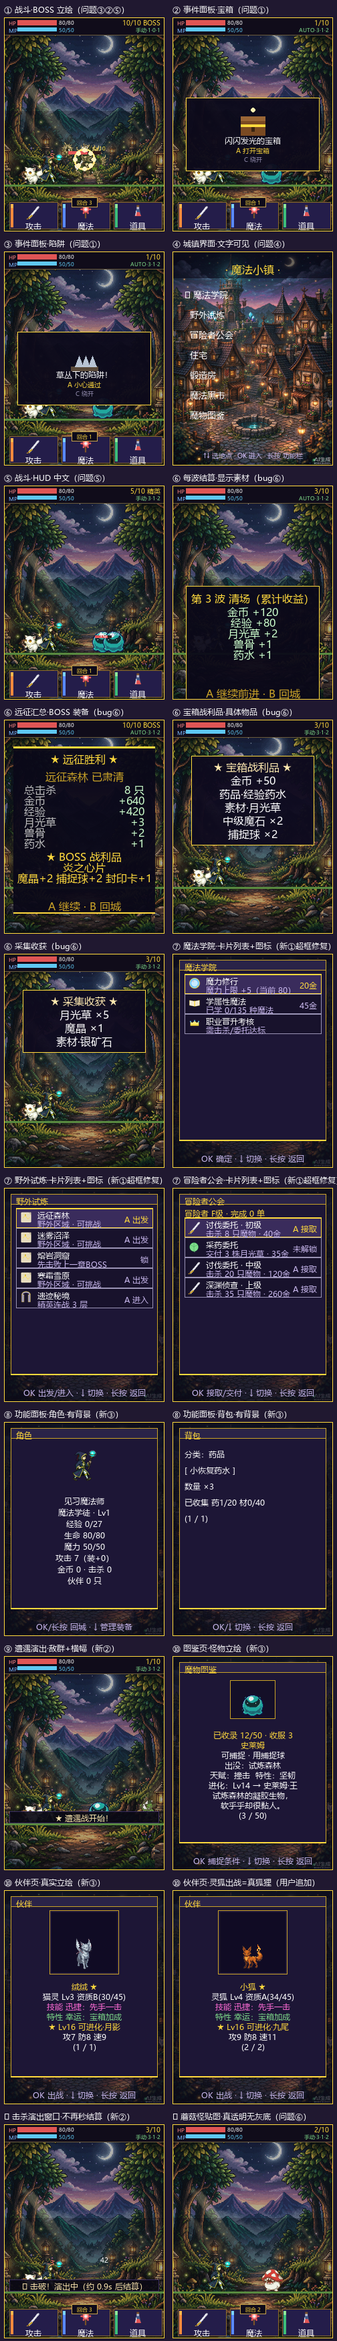
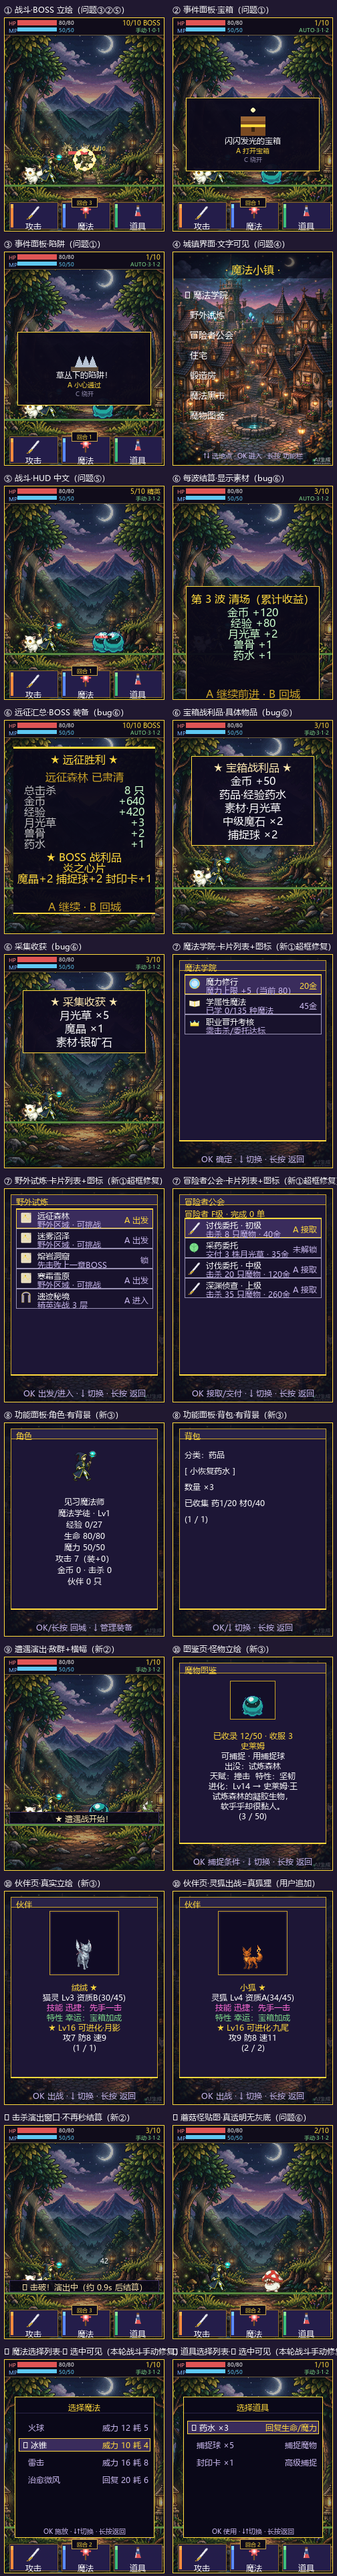
mage: 战斗手动模式魔法/道具子菜单可视化 + OK退出自动即攻击
- 修复「切手动后按键不好用」：BP_MAGIC/BP_ITEM 现在用 mage_fx_choices
  面板渲染完整列表 + ▶ 选中高亮 + 操作提示，不再只有左上角一行小字
- BP_MENU 的 OK 在自动模式下现在直接停自动并出招（不再只弹‘手动接管’）
- 复用 evtRoot/evtBox 加 FX_PM_CHOICES 模式；不抢 RESULT/LOOT/EVENT 面板
- 预览工具同步增加 magic/item 子菜单对比图

diff --git a/main/mage_fx.c b/main/mage_fx.c
@@ -865,6 +865,7 @@ void mage_fx_show(bool on)
 #define FX_PM_RESULT 1
 #define FX_PM_EXPO   2
 #define FX_PM_LOOT   3
+#define FX_PM_CHOICES 4   /* 魔法/道具选择列表面板（带 ▶ 选中） */
 
 static int8_t s_pmode = -1;   /* 当前面板版式（-1=隐藏） */
 static int16_t s_pgeo = -1;   /* 版式+行数组合的几何记忆 */
@@ -1083,6 +1084,57 @@ void mage_fx_loot(int show, const char *title, const char *footer, const char **
         strncpy(lprev, lbuf, sizeof(lprev) - 1); lprev[sizeof(lprev) - 1] = '\0';
         lv_label_set_text(F.evtName, title ? title : "");
         lv_label_set_text(F.evtDesc, lbuf);
+        s_pgen++; mygen = s_pgen;
+    }
+    if (lv_obj_has_flag(F.evtRoot, LV_OBJ_FLAG_HIDDEN))
+        lv_obj_remove_flag(F.evtRoot, LV_OBJ_FLAG_HIDDEN);
+}
+
+/* 魔法/道具选择列表面板：复用 evtRoot/evtBox，单列带 ▶ 选中的多行文本，
+ * 与城镇菜单一致的「选中高亮」语义；不抢事件面板（EVENT 独占 evtRoot）。
+ * show<=0 时仅当当前就是 CHOICES 面板才隐藏，避免误伤 RESULT/LOOT/EVENT。 */
+void mage_fx_choices(int show, const char *title, const char **lines, int n, const char *footer)
+{
+    if (!F.built || !g_fx_parent) return;
+    if (show <= 0 || n <= 0 || !lines) {
+        if (s_pmode == FX_PM_CHOICES) {
+            if (!lv_obj_has_flag(F.evtRoot, LV_OBJ_FLAG_HIDDEN))
+                lv_obj_add_flag(F.evtRoot, LV_OBJ_FLAG_HIDDEN);
+            s_pmode = -1; s_pgeo = -1;
+        }
+        return;
+    }
+    if (s_pmode != FX_PM_CHOICES) {
+        s_pmode = FX_PM_CHOICES;
+        s_pgen++;
+        panel_geo(4, 16, 56, SCR_W - 32, 210, 0x0a0818);
+        lv_obj_add_flag(F.evtIcon, LV_OBJ_FLAG_HIDDEN);
+        lv_obj_add_flag(F.evtSub,  LV_OBJ_FLAG_HIDDEN);
+        lv_obj_add_flag(F.evtRowL, LV_OBJ_FLAG_HIDDEN);
+        lv_obj_add_flag(F.evtRowR, LV_OBJ_FLAG_HIDDEN);
+        lv_obj_set_width(F.evtName, SCR_W - 32);
+        lv_obj_set_style_text_color(F.evtName, lv_color_hex(0xffd93d), 0);
+        lv_obj_set_style_text_align(F.evtName, LV_TEXT_ALIGN_CENTER, 0);
+        lv_obj_set_pos(F.evtName, 0, 8);
+        lv_obj_set_width(F.evtDesc, SCR_W - 32);
+        lv_obj_set_style_text_color(F.evtDesc, lv_color_hex(0xf2eefb), 0);
+        lv_obj_set_style_text_align(F.evtDesc, LV_TEXT_ALIGN_LEFT, 0);
+        lv_obj_set_pos(F.evtDesc, 0, 30);
+        lv_obj_set_width(F.evtHint, SCR_W - 32);
+        lv_obj_set_style_text_color(F.evtHint, lv_color_hex(0xffd93d), 0);
+        lv_obj_set_style_text_align(F.evtHint, LV_TEXT_ALIGN_CENTER, 0);
+        lv_obj_set_pos(F.evtHint, 0, 188);
+    }
+    static char lbuf[384], lprev[384], ltitle[28];
+    static uint8_t mygen = 0;
+    bool force = (mygen != s_pgen);
+    panel_join(lbuf, sizeof(lbuf), lines, n);
+    if (force || strcmp(lbuf, lprev) != 0 || strcmp(title ? title : "", ltitle) != 0) {
+        strncpy(ltitle, title ? title : "", sizeof(ltitle) - 1); ltitle[sizeof(ltitle) - 1] = '\0';
+        strncpy(lprev, lbuf, sizeof(lprev) - 1); lprev[sizeof(lprev) - 1] = '\0';
+        lv_label_set_text(F.evtName, title ? title : "");
+        lv_label_set_text(F.evtDesc, lbuf);
+        lv_label_set_text(F.evtHint, footer ? footer : "");
         s_pgen++; mygen = s_pgen;
     }
     if (lv_obj_has_flag(F.evtRoot, LV_OBJ_FLAG_HIDDEN))

diff --git a/tools/preview_mage_battle.py b/tools/preview_mage_battle.py
@@ -527,6 +527,44 @@ def scene_battle_intro():
     return im
 
 
+def scene_battle_submenu(title, rows, sel, footer):
+    """战斗子菜单（BP_MAGIC/BP_ITEM）：复用战斗背景 + HUD + 底部三卡，
+    居中浮层列表面板带 ▶ 选中，与固件 mage_fx_choices 1:1。"""
+    im, d = battle_base()
+    draw_hud(d, wave="1/10", stat="手动·3·1·2", turn="回合 2")
+    draw_cards(im, d, turn="回合 2")
+    px, py, pw, ph = 16, 56, W - 32, 210
+    d.rectangle([px, py, px + pw, py + ph], fill=(0x0a, 0x08, 0x18), outline=GOLD)
+    txt_c(d, title, px + pw / 2, py + 8, F12, GOLD)
+    d.rectangle([px + 1, py + 24, px + pw - 1, py + 24], fill=(0x2a, 0x23, 0x48))
+    y = py + 38
+    for i, (name, sub) in enumerate(rows):
+        selp = (i == sel)
+        if selp:
+            d.rectangle([px + 6, y - 2, px + pw - 6, y + 17], fill=(0x3a, 0x2c, 0x5c), outline=GOLD)
+            mark = "▶ "
+        else:
+            mark = "  "
+        txt_l(d, mark + name, px + 12, y, F12, (0xff, 0xff, 0xff) if selp else DIM)
+        if sub:
+            txt_r(d, sub, px + pw - 8, y, F12, GOLD if selp else DIM)
+        y += 26
+    txt_c(d, footer, px + pw / 2, py + ph - 16, F10, DIM)
+    return im
+
+
+def scene_battle_magic(sel=1):
+    rows = [("火球", "威力 12 耗 5"), ("冰锥", "威力 10 耗 4"),
+            ("雷击", "威力 16 耗 8"), ("治愈微风", "回复 20 耗 6")]
+    return scene_battle_submenu("选择魔法", rows, sel, "OK 施放 · ↓↑切换 · 长按返回")
+
+
+def scene_battle_item(sel=0):
+    rows = [("药水 ×3", "回复生命/魔力"), ("捕捉球 ×5", "捕捉魔物"),
+            ("封印卡 ×1", "高级捕捉")]
+    return scene_battle_submenu("选择道具", rows, sel, "OK 使用 · ↓↑切换 · 长按返回")
+
+
 # ============ 图鉴/伙伴页·金框 + 程序化怪物立绘（本轮 1:1 复刻核对）============
 def scene_dex(idx=0):
     """魔物图鉴（frameBox 详情页）：金框 + 立绘盒(86,36,68,58) + drawMob 立绘
@@ -661,6 +699,8 @@ def main():
     partners_fox = scene_partners_fox()
     battle_kill = scene_battle_kill()
     mushroom = scene_mushroom()
+    battle_magic = scene_battle_magic()
+    battle_item = scene_battle_item()
 
     paths = {
         "mage_battle_boss_240x320.png": boss,
@@ -683,6 +723,8 @@ def main():
         "mage_partners_fox_240x320.png": partners_fox,
         "mage_battle_kill_240x320.png": battle_kill,
         "mage_mushroom_240x320.png": mushroom,
+        "mage_battle_magic_240x320.png": battle_magic,
+        "mage_battle_item_240x320.png": battle_item,
     }
     for name, im in paths.items():
         p = os.path.join(OUT, name)
@@ -712,6 +754,8 @@ def main():
         (partners_fox, "⑩ 伙伴页·灵狐出战=真狐狸（用户追加）"),
         (battle_kill, "⑪ 击杀演出窗口·不再秒结算（新②）"),
         (mushroom, "⑫ 蘑菇怪贴图·真透明无灰底（问题⑥）"),
+        (battle_magic, "⑬ 魔法选择列表·▶ 选中可见（本轮战斗手动修复）"),
+        (battle_item, "⑬ 道具选择列表·▶ 选中可见（本轮战斗手动修复）"),
     ])
     op = os.path.join(OUT, "mage_fixes_overview_480x640.png")
     ov.save(op)

diff --git a/main/mage.c b/main/mage.c
@@ -2461,17 +2461,35 @@ static void battle_render(void) {
     /* 底部动作卡之上不再放任何文字；选中态与选项列表用 toast 提示，
      * 与原版「卡片高亮 + 弹层」语义一致，且绝不遮挡画面。 */
     s_init();
+    static char cbuf[16][48];
+    const char *clines[16]; int cn = 0; const char *ctitle = ""; const char *cfoot = ""; int showChoices = 0;
     switch (bt.phase) {
     case BP_MAGIC: {
         int lo[16]; int nl = activeLoadoutKeys(lo, 16);
-        int k = (bt.magicIdx < nl) ? lo[bt.magicIdx] : g.equipped;
-        s_add("%s 威力%d 耗%d", spellName(k), spellPower(k), spellCost(k));
+        for (int i = 0; i < nl && cn < 16; i++) {
+            int k = lo[i];
+            snprintf(cbuf[cn], sizeof(cbuf[cn]), "%s%s  威力%d 耗%d",
+                     (i == bt.magicIdx) ? "▶ " : "  ",
+                     spellName(k), spellPower(k), spellCost(k));
+            clines[cn++] = cbuf[cn - 1];
+        }
+        ctitle = "选择魔法"; cfoot = "OK 施放 · ↓↑切换 · 长按返回";
+        showChoices = 1;
         break;
     }
     case BP_ITEM: {
         const char *kn[3] = {"药水", "捕捉球", "封印卡"};
-        int kind = item_opt_kind(bt.itemIdx);
-        s_add("%s", kind >= 0 ? kn[kind] : "（空）");
+        int cnt[3] = { g.potions, g.orbs, g.seals };
+        int n = item_opt_count();
+        for (int i = 0; i < n && cn < 16; i++) {
+            int kind = item_opt_kind(i);
+            snprintf(cbuf[cn], sizeof(cbuf[cn]), "%s%s  ×%d",
+                     (i == bt.itemIdx) ? "▶ " : "  ",
+                     kn[kind], cnt[kind]);
+            clines[cn++] = cbuf[cn - 1];
+        }
+        ctitle = "选择道具"; cfoot = "OK 使用 · ↓↑切换 · 长按返回";
+        showChoices = 1;
         break;
     }
     case BP_RESULT: {
@@ -2550,6 +2568,11 @@ static void battle_render(void) {
         mage_fx_event(-1);
         mage_fx_loot(0, NULL, NULL, NULL, 0);
     }
+    /* 魔法/道具选择列表面板：进入子菜单显示，离开（含回主菜单/结算）立即收起，
+     * 不抢 RESULT/LOOT/EVENT 面板。 */
+    if (showChoices) mage_fx_choices(1, ctitle, clines, cn, cfoot);
+    else if (bt.phase != BP_RESULT && bt.phase != BP_LOOT && bt.phase != BP_EVENT)
+        mage_fx_choices(0, NULL, NULL, 0, NULL);
 }
 
 static void battle_handle(int act) {
@@ -2564,7 +2587,7 @@ static void battle_handle(int act) {
          * 否则「只能攻击、选不了魔法道具」。改为：任意指令都会先接管手动，再执行对应动作；
          * 返回键始终直接回城（只按一次即可，不再需要按两遍）。 */
         if (act == ACT_OK) {
-            if (bt.autoBattle) { bt.autoBattle = 0; toast("手动接管"); break; }
+            if (bt.autoBattle) { bt.autoBattle = 0; toast("手动模式"); }
             hero_strike();
         }
         else if (act == ACT_NEXT) {

diff --git a/main/mage_fx.h b/main/mage_fx.h
@@ -42,6 +42,10 @@ void mage_fx_expo(int show, const char *title, const char *sub,
  * box(28,54,W-56)，无底部提示（HTML 3 秒自动消失，C 端 battle_tick 同步 3 秒自动继续）。 */
 void mage_fx_loot(int show, const char *title, const char *footer, const char **lines, int n);
 
+/* 魔法/道具选择列表面板：复用 evtRoot/evtBox 的单列多行，▶ 标当前选中项，
+ * 与城镇菜单一致的选中高亮语义。show<=0 隐藏。 */
+void mage_fx_choices(int show, const char *title, const char **lines, int n, const char *footer);
+
 /* 每帧推进时间轴（背景滚动、跳跃、粒子、突进、受击），dt 单位秒 */
 void mage_fx_tick(float dt);
 
